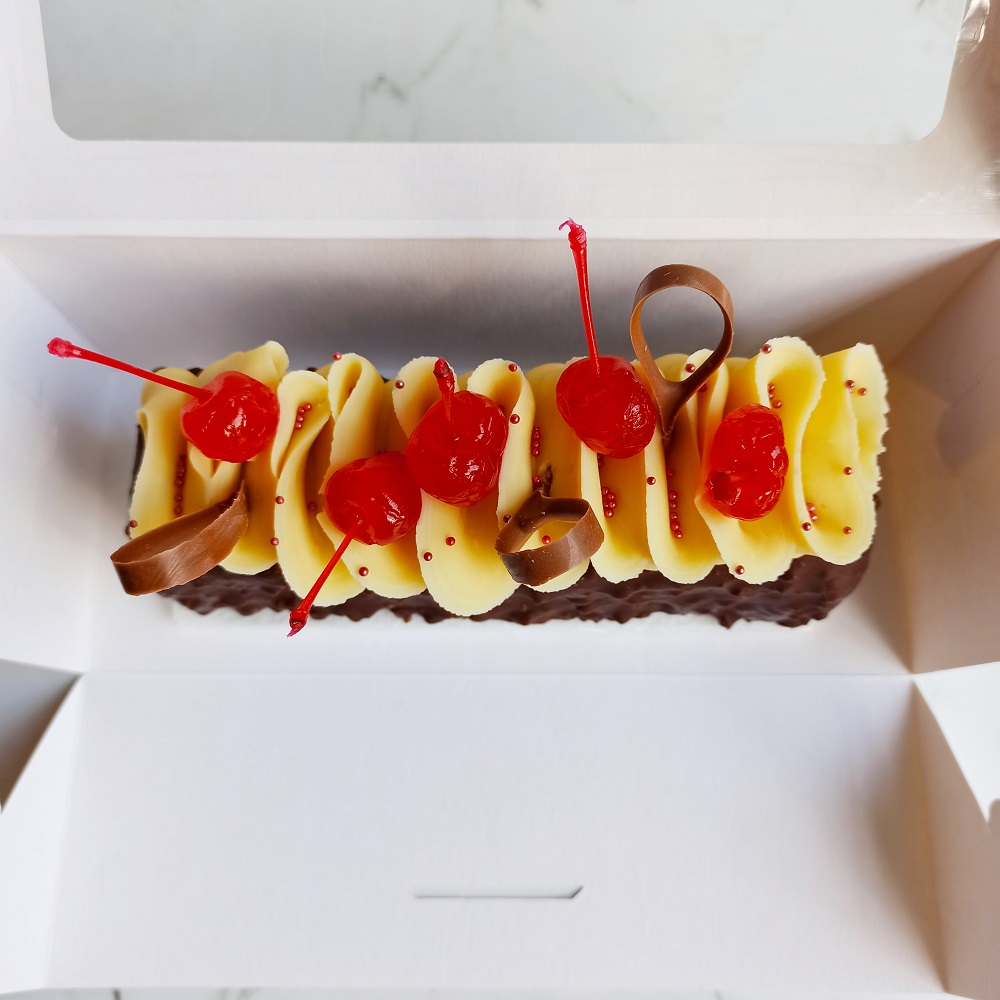
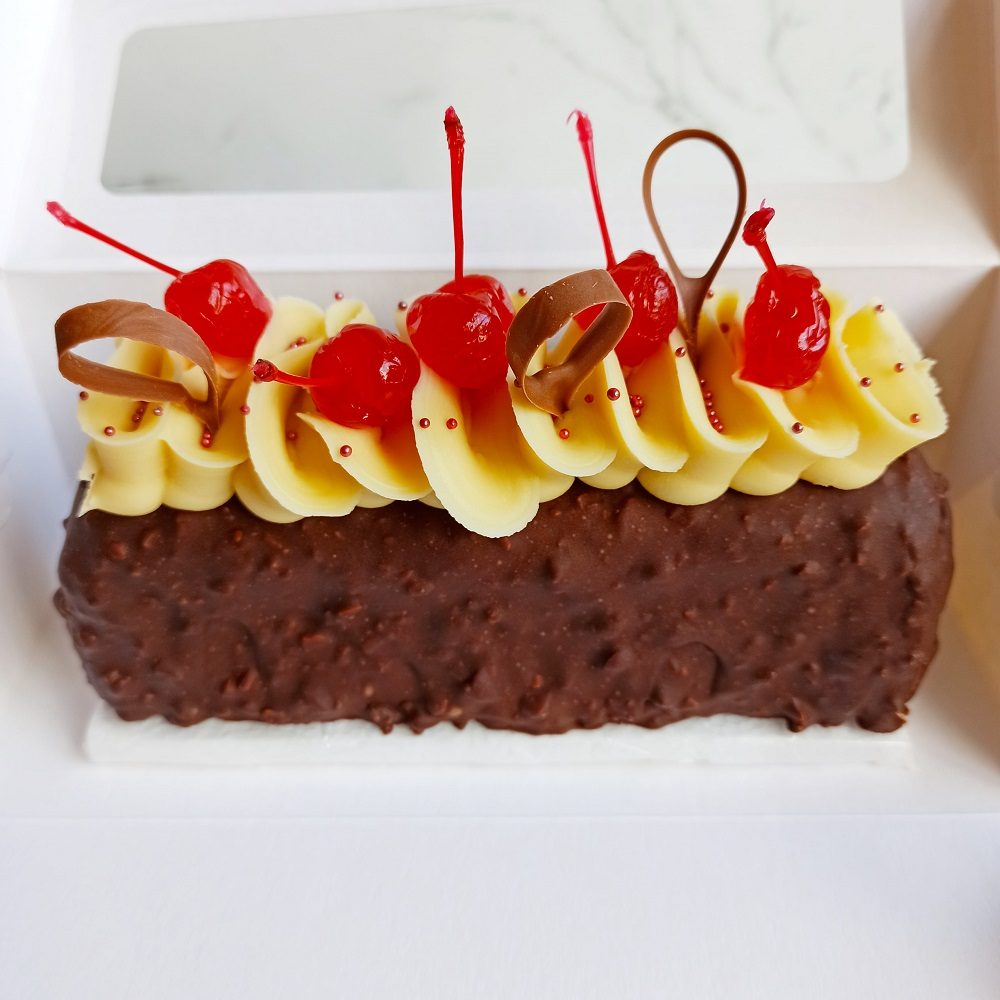
Recetas a borrador + creaciones nuevas con foto real
- Todas las recetas pasan a status "draft": la sección Recetas y el
  teaser del home muestran el estado editorial "Las recetas están en
  revisión" (sin páginas, sitemap ni links rotos). ItemList se omite
  cuando no hay publicadas.
- Nuevas creaciones de portfolio con fotografía real (entera + corte):
  Carrot Cake, Marquise de chocolate y pistacho, Red Velvet, Torta Moka,
  Postre de frambuesa y chocolate blanco. Travel Cake ahora con corte.
- No se inventan gramajes: las fórmulas quedan pendientes de validación
  de Flor; las creaciones documentan composición, no la receta.

Claude-Session: https://claude.ai/code/session_01XVGgaUNqWzpynUNwQu7GVm

diff --git a/src/data/recipes.js b/src/data/recipes.js
@@ -1,5 +1,5 @@
 // Modelo de recetas data-driven.
-// status: "published" → visible en índice, sitemap y schema.
+// status: "draft" → visible en índice, sitemap y schema.
 //         "draft"     → estructura lista, requiere que Flor valide fórmula/foto.
 // Las cantidades son una versión de casa fiel a la composición documentada de
 // cada creación. No se inventan gramajes "de autor": donde la fórmula exacta
@@ -26,7 +26,7 @@ import bavaroiseChoc from "../assets/recetas/bavaroise-choc.jpg";
 export const recipes = [
   // ───────────────────────── PUBLICADAS ─────────────────────────
   {
-    slug: "lemon-pie", status: "published", cat: "Tartas", cuisine: null, img: lemon,
+    slug: "lemon-pie", status: "draft", cat: "Tartas", cuisine: null, img: lemon,
     title: "Lemon Pie", subtitle: "Sablée de chocolate, curd de limón y merengue",
     imageAlt: "Lemon Pie con merengue flameado sobre una base de sablée de chocolate",
     servings: "8 porciones", moldSize: "Molde de 22–24 cm", difficulty: "Media",
@@ -50,7 +50,7 @@ export const recipes = [
     related: ["key-lime-pie", "tarta-ganache-frutos-rojos"],
   },
   {
-    slug: "rogel", status: "published", cat: "Clásicos argentinos", cuisine: "Argentina", img: rogel,
+    slug: "rogel", status: "draft", cat: "Clásicos argentinos", cuisine: "Argentina", img: rogel,
     title: "Rogel", subtitle: "Discos finos y crocantes, dulce de leche y merengue",
     imageAlt: "Rogel con capas finas, dulce de leche y merengue flameado",
     servings: "10 porciones", moldSize: "Discos de 22 cm", difficulty: "Media",
@@ -74,7 +74,7 @@ export const recipes = [
     related: ["chocotorta", "postre-balcarce-tradicional"],
   },
   {
-    slug: "cheesecake-maracuya", status: "published", cat: "Tartas", cuisine: null, img: cheesecake,
+    slug: "cheesecake-maracuya", status: "draft", cat: "Tartas", cuisine: null, img: cheesecake,
     title: "New York Cheesecake con maracuyá", subtitle: "Base crocante, queso horneado y salsa de maracuyá",
     imageAlt: "New York Cheesecake horneado con salsa de maracuyá por encima",
     servings: "10–12 porciones", moldSize: "Molde desmontable de 22 cm", difficulty: "Media",
@@ -98,7 +98,7 @@ export const recipes = [
     related: ["cheesecake-frutos-rojos", "key-lime-pie"],
   },
   {
-    slug: "cheesecake-frutos-rojos", status: "published", cat: "Tartas", cuisine: null, img: cheesecakeFr,
+    slug: "cheesecake-frutos-rojos", status: "draft", cat: "Tartas", cuisine: null, img: cheesecakeFr,
     title: "New York Cheesecake con frutos rojos", subtitle: "Base crocante, queso horneado y confitura de frutos rojos",
     imageAlt: "New York Cheesecake con una confitura de frutos rojos por encima",
     servings: "10–12 porciones", moldSize: "Molde desmontable de 22 cm", difficulty: "Media",
@@ -122,7 +122,7 @@ export const recipes = [
     related: ["cheesecake-maracuya", "tarta-ganache-frutos-rojos"],
   },
   {
-    slug: "chocotorta", status: "published", cat: "Clásicos argentinos", cuisine: "Argentina", img: chocotorta,
+    slug: "chocotorta", status: "draft", cat: "Clásicos argentinos", cuisine: "Argentina", img: chocotorta,
     title: "Chocotorta con chocolate y efecto terciopelo", subtitle: "Chocolinas, dulce de leche y queso crema, con baño y terciopelo",
     imageAlt: "Chocotorta cuadrada con terciopelo de chocolate con leche",
     servings: "10–12 porciones", moldSize: "Molde de 20 × 20 cm", difficulty: "Fácil",
@@ -146,7 +146,7 @@ export const recipes = [
     related: ["rogel", "torta-brownie-dulce-de-leche"],
   },
   {
-    slug: "torta-brownie-dulce-de-leche", status: "published", cat: "Tortas", cuisine: null, img: brownie,
+    slug: "torta-brownie-dulce-de-leche", status: "draft", cat: "Tortas", cuisine: null, img: brownie,
     title: "Torta Brownie con dulce de leche y merengue", subtitle: "Brownie húmedo, dulce de leche y merengue",
     imageAlt: "Torta brownie con dulce de leche y merengue",
     servings: "10 porciones", moldSize: "Molde de 22 cm", difficulty: "Fácil",
@@ -168,7 +168,7 @@ export const recipes = [
     related: ["chocotorta", "selva-negra"],
   },
   {
-    slug: "tarta-banana-split", status: "published", cat: "Tartas", cuisine: null, img: bananaSplit,
+    slug: "tarta-banana-split", status: "draft", cat: "Tartas", cuisine: null, img: bananaSplit,
     title: "Tarta Banana Split", subtitle: "Sablée, crema, banana y dulce de leche",
     imageAlt: "Tarta Banana Split con dulce de leche y chocolate",
     servings: "8 porciones", moldSize: "Molde de 22 cm", difficulty: "Fácil",
@@ -190,7 +190,7 @@ export const recipes = [
     related: ["rogel", "torta-brownie-dulce-de-leche"],
   },
   {
-    slug: "selva-negra", status: "published", cat: "Tortas", cuisine: "Alemania", img: selvaNegra,
+    slug: "selva-negra", status: "draft", cat: "Tortas", cuisine: "Alemania", img: selvaNegra,
     title: "Selva Negra", subtitle: "Bizcocho de chocolate, kirsch, crema y cerezas",
     imageAlt: "Torta Selva Negra con crema, virutas de chocolate y cerezas",
     servings: "12 porciones", moldSize: "Molde de 22 cm", difficulty: "Media",
@@ -214,7 +214,7 @@ export const recipes = [
     related: ["torta-brownie-dulce-de-leche", "tiramisu"],
   },
   {
-    slug: "torta-arcoiris", status: "published", cat: "Tortas", cuisine: null, img: arcoiris,
+    slug: "torta-arcoiris", status: "draft", cat: "Tortas", cuisine: null, img: arcoiris,
     title: "Torta Arcoíris con crema de queso", subtitle: "Bizcochos de colores y crema de queso",
     imageAlt: "Torta Arcoíris con capas de bizcocho de colores y crema",
     servings: "12 porciones", moldSize: "Moldes de 18–20 cm", difficulty: "Media",
@@ -236,7 +236,7 @@ export const recipes = [
     related: ["selva-negra", "macarons"],
   },
   {
-    slug: "key-lime-pie", status: "published", cat: "Tartas", cuisine: null, img: keyLime,
+    slug: "key-lime-pie", status: "draft", cat: "Tartas", cuisine: null, img: keyLime,
     title: "Key Lime Pie con sablée de vainilla", subtitle: "Sablée de vainilla, relleno de lima y chantilly",
     imageAlt: "Key Lime Pie con crema y ralladura de lima",
     servings: "8 porciones", moldSize: "Molde de 22 cm", difficulty: "Media",
@@ -260,7 +260,7 @@ export const recipes = [
     related: ["lemon-pie", "cheesecake-maracuya"],
   },
   {
-    slug: "tarta-ganache-frutos-rojos", status: "published", cat: "Tartas", cuisine: null, img: frutosRojos,
+    slug: "tarta-ganache-frutos-rojos", status: "draft", cat: "Tartas", cuisine: null, img: frutosRojos,
     title: "Tarta de ganache de chocolate blanco y frutos rojos", subtitle: "Sablée, confitura y ganache de chocolate blanco",
     imageAlt: "Tarta de ganache de chocolate blanco con frutos rojos",
     servings: "8 porciones", moldSize: "Molde de 22 cm", difficulty: "Media",
@@ -284,7 +284,7 @@ export const recipes = [
     related: ["tarta-ganache-arandanos", "cheesecake-frutos-rojos"],
   },
   {
-    slug: "tarta-ganache-arandanos", status: "published", cat: "Tartas", cuisine: null, img: arandanos,
+    slug: "tarta-ganache-arandanos", status: "draft", cat: "Tartas", cuisine: null, img: arandanos,
     title: "Tarta de ganache de chocolate blanco y arándanos", subtitle: "Sablée, confitura de arándanos, ganache blanca y merengue",
     imageAlt: "Tarta de ganache de chocolate blanco y arándanos con picos de merengue",
     servings: "8 porciones", moldSize: "Molde de 22 cm", difficulty: "Media",
@@ -307,7 +307,7 @@ export const recipes = [
     related: ["tarta-ganache-frutos-rojos", "lemon-pie"],
   },
   {
-    slug: "tiramisu", status: "published", cat: "Pastelería francesa", cuisine: "Italia", img: tiramisu,
+    slug: "tiramisu", status: "draft", cat: "Pastelería francesa", cuisine: "Italia", img: tiramisu,
     title: "Tiramisú con efecto terciopelo", subtitle: "Biscuit al café, crema de mascarpone y cobertura de chocolate",
     imageAlt: "Tiramisú con cobertura de chocolate y efecto terciopelo",
     servings: "6–8 porciones", moldSize: "Molde de 20 cm", difficulty: "Media",
@@ -330,7 +330,7 @@ export const recipes = [
     related: ["selva-negra", "chocotorta"],
   },
   {
-    slug: "postre-balcarce-tradicional", status: "published", cat: "Clásicos argentinos", cuisine: "Argentina", img: balcarce,
+    slug: "postre-balcarce-tradicional", status: "draft", cat: "Clásicos argentinos", cuisine: "Argentina", img: balcarce,
     title: "Postre Balcarce tradicional", subtitle: "Bizcocho, almíbar, dulce de leche, crema, merengue y castañas",
     imageAlt: "Postre Balcarce con merengue, dulce de leche y crema",
     servings: "10 porciones", moldSize: "Molde de 22 cm", difficulty: "Media",
@@ -354,7 +354,7 @@ export const recipes = [
     related: ["rogel", "chocotorta"],
   },
   {
-    slug: "macarons", status: "published", cat: "Técnicas", cuisine: "Francia", img: macaronsImg,
+    slug: "macarons", status: "draft", cat: "Técnicas", cuisine: "Francia", img: macaronsImg,
     title: "Macarons: tapas y ganache", subtitle: "La técnica base para tapas lisas y una ganache para rellenar",
     imageAlt: "Macarons de colores en caja",
     servings: "unos 24 macarons", moldSize: "Placa con silicona o papel", difficulty: "Alta",

diff --git a/src/data/creations.js b/src/data/creations.js
@@ -25,6 +25,17 @@ import tartaArandanos from "../assets/gallery/tarta-arandanos.jpg";
 import tartaInvierno from "../assets/gallery/tarta-invierno.jpg";
 import tiramisu from "../assets/gallery/tiramisu.jpg";
 import travelCake from "../assets/gallery/travel-cake.jpg";
+import travelCakeCorte from "../assets/gallery/travel-cake-corte.jpg";
+import carrotCake from "../assets/gallery/carrot-cake.jpg";
+import carrotCakeCorte from "../assets/gallery/carrot-cake-corte.jpg";
+import marquisePistacho from "../assets/gallery/marquise-pistacho.jpg";
+import marquisePistachoCorte from "../assets/gallery/marquise-pistacho-corte.jpg";
+import redVelvet from "../assets/gallery/red-velvet.jpg";
+import redVelvetTop from "../assets/gallery/red-velvet-top.jpg";
+import moka from "../assets/gallery/moka.jpg";
+import mokaCorte from "../assets/gallery/moka-corte.jpg";
+import postreFrambuesa from "../assets/gallery/postre-frambuesa.jpg";
+import postreFrambuesaCorte from "../assets/gallery/postre-frambuesa-corte.jpg";
 import bombonesClasicos from "../assets/gallery/bombones-clasicos.jpg";
 import bombonesColor from "../assets/gallery/bombones-color.jpg";
 import bombonesMaridaje from "../assets/gallery/bombones-maridaje.jpg";
@@ -88,11 +99,54 @@ export const creations = [
   },
   {
     slug: "travel-cake", cat: "tortas", title: "Travel Cake",
-    desc: "Budín de cacao y frutos secos con baño crocante de chocolate y maní, relleno de ganache blanca.",
-    images: [{ src: travelCake, alt: "Travel Cake de chocolate con maní y cerezas" }],
+    desc: "Budín de cacao y frutos secos con baño crocante de chocolate y maní, relleno de ganache blanca, crema y cerezas.",
+    images: [
+      { src: travelCake, alt: "Travel Cake: budín de chocolate con crema, cerezas y rulo de chocolate" },
+      { src: travelCakeCorte, alt: "Travel Cake al corte: budín de cacao con relleno de ganache blanca", label: "El corte" },
+    ],
+  },
+  {
+    slug: "carrot-cake", cat: "tortas", title: "Carrot Cake",
+    desc: "Bizcocho húmedo de zanahoria con nueces y especias, relleno y cobertura de crema de queso.",
+    images: [
+      { src: carrotCake, alt: "Carrot Cake con cobertura de crema de queso y nueces" },
+      { src: carrotCakeCorte, alt: "Carrot Cake al corte: bizcocho de zanahoria con nueces y crema de queso", label: "El corte" },
+    ],
+  },
+  {
+    slug: "marquise-pistacho", cat: "tortas", title: "Marquise de chocolate y pistacho",
+    desc: "Base de brownie, capa de pistacho, mousse de chocolate con leche y cobertura de chocolate con pistachos.",
+    images: [
+      { src: marquisePistacho, alt: "Marquise de chocolate y pistacho con cobertura de chocolate y pistachos" },
+      { src: marquisePistachoCorte, alt: "Marquise al corte: brownie, capa de pistacho y mousse de chocolate", label: "El corte" },
+    ],
+  },
+  {
+    slug: "red-velvet", cat: "tortas", title: "Red Velvet",
+    desc: "Bizcocho rojo húmedo de vainilla y cacao, relleno y decoración de crema de queso.",
+    images: [
+      { src: redVelvet, alt: "Torta Red Velvet con capas rojas y crema de queso, coronada con un macaron" },
+      { src: redVelvetTop, alt: "Red Velvet vista desde arriba: rosetas de crema de queso y roja", label: "La terminación" },
+    ],
+  },
+  {
+    slug: "moka", cat: "tortas", title: "Torta Moka",
+    desc: "Budín de chocolate y café, con glaseado al café y rosetas de crema de manteca al café.",
+    images: [
+      { src: moka, alt: "Torta Moka con glaseado al café y rosetas de crema de manteca" },
+      { src: mokaCorte, alt: "Torta Moka al corte: capas de budín de chocolate y crema al café", label: "El corte" },
+    ],
   },
 
   // ---- Tartas & postres ----
+  {
+    slug: "postre-frambuesa", cat: "tartas", title: "Postre de frambuesa y chocolate blanco",
+    desc: "Biscuit con almíbar, crema de frambuesa y frutos rojos, cobertura de chocolate blanco con efecto terciopelo.",
+    images: [
+      { src: postreFrambuesa, alt: "Postre de frambuesa con terciopelo rosado en degradé" },
+      { src: postreFrambuesaCorte, alt: "Postre de frambuesa al corte: crema de frambuesa, frutos rojos y biscuit", label: "El corte" },
+    ],
+  },
   {
     slug: "higos-pistacho", cat: "tartas", title: "Tarta de chocolate, higos y pistacho", recipeSlug: "tarta-chocolate-higos-pistacho",
     desc: "Sablée de cacao, crema de chocolate blanco y dulce de leche, ganache 70 %, confitura de higos y pistacho.",
